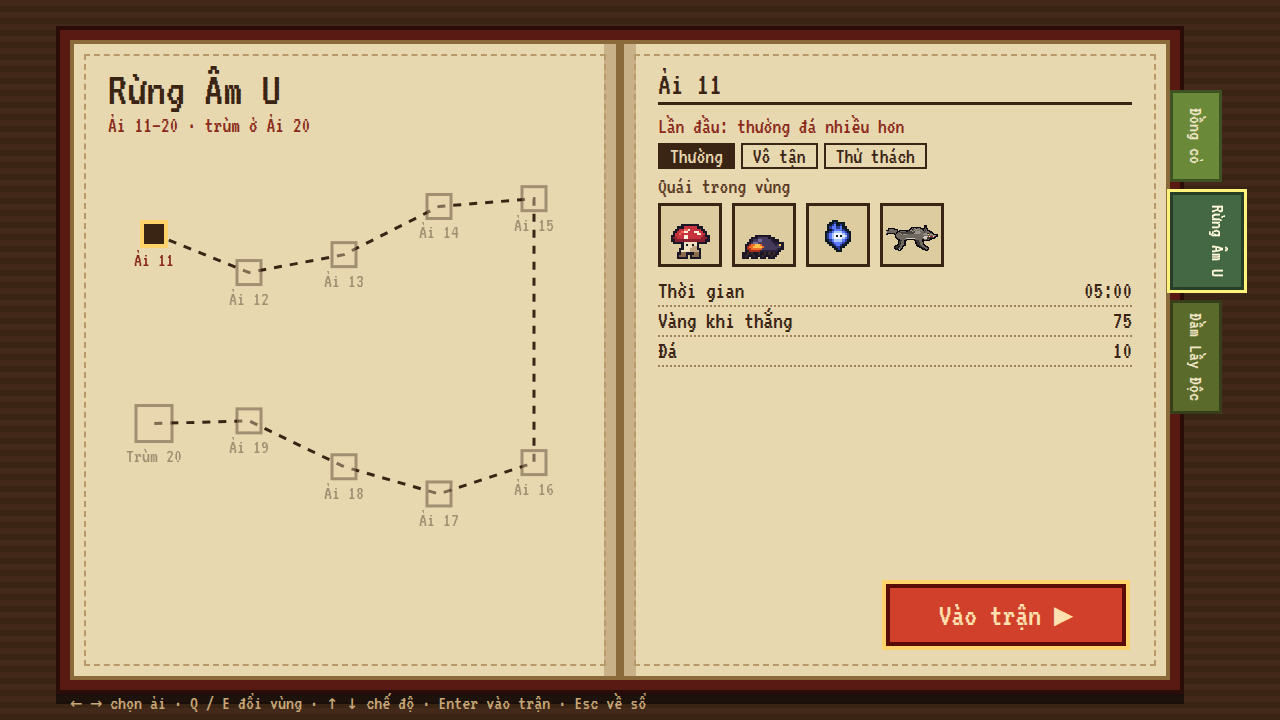
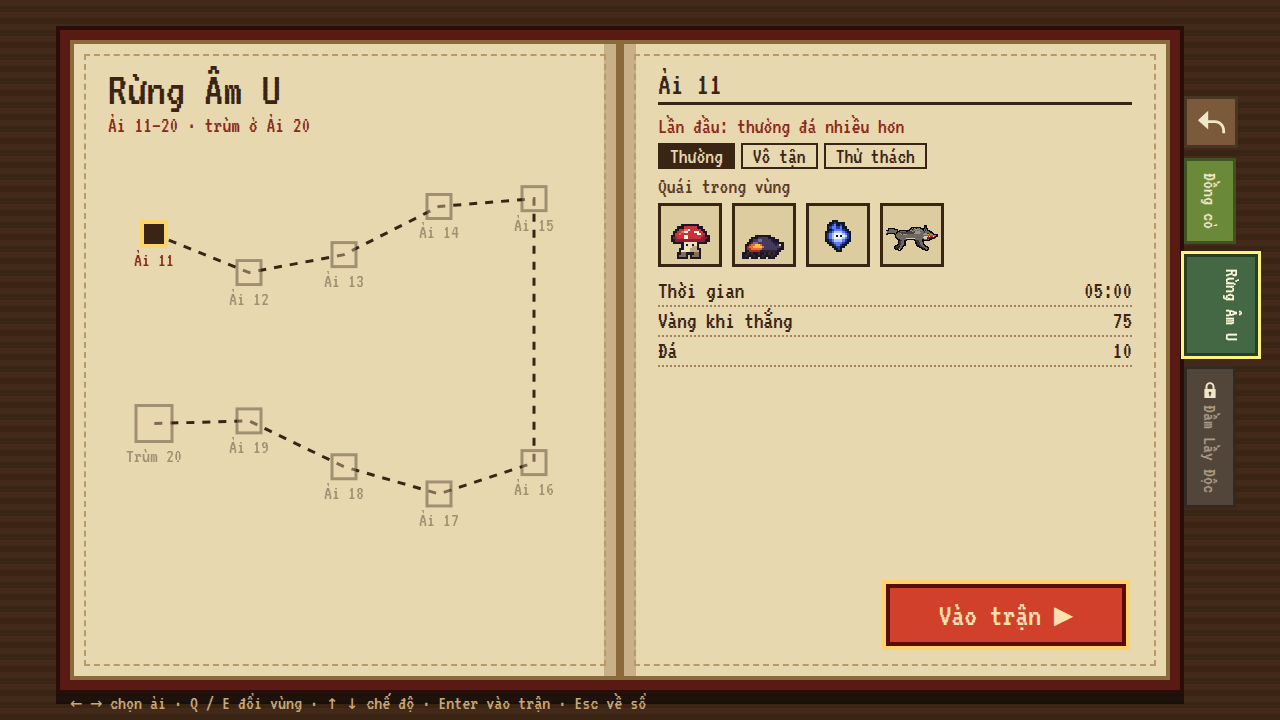
fix(design-web): ribbons fit their words, sit off the cover, lock when closed
User 2026-11-26: a ribbon was taller than its words, and regions not
reached must be locked. .ribbon drops its 92 px minimum, .ribbons sit
14 px out like the back tab, and .ribbon.lock is grey with a padlock
(assets/lobby/lock.svg) and not clickable; the stage page locks the
regions past the best stage + 1.

Verified: Chrome headless stages.png, ribbon column zoomed

Changed region(s): [[0.9062, 0.1222, 1.0, 0.7028]]

diff --git a/design-web/games/bach-ai/journal.css b/design-web/games/bach-ai/journal.css
@@ -21,8 +21,8 @@ img { image-rendering: pixelated; }
 .sub { font-size: 22px; color: var(--ink-red); }
 .muted { color: var(--ink-soft); }
 /* ribbons out of the right edge: tabs */
-.ribbons { position: absolute; left: 1100px; top: 50px; display: flex; flex-direction: column; gap: 10px; }
-.ribbon { width: 52px; min-height: 92px; padding: 10px 0; border: 3px solid #0006; color: #f3e6c8; font-size: 20px; writing-mode: vertical-rl;
+.ribbons { position: absolute; left: 1114px; top: 50px; display: flex; flex-direction: column; gap: 10px; }
+.ribbon { width: 52px; padding: 12px 0; border: 3px solid #0006; color: #f3e6c8; font-size: 20px; writing-mode: vertical-rl;
   text-align: center; line-height: 46px; cursor: pointer; }
 .ribbon.on { width: 74px; filter: brightness(1.15); outline: 3px solid var(--gold); }
 /* a ledger row: name, dotted leader, value */
@@ -46,3 +46,6 @@ img { image-rendering: pixelated; }
 .back-tab img { width: 30px; height: 30px; }
 .back-tab:hover, .back-tab.on { width: 68px; filter: brightness(1.15); outline: 3px solid var(--gold); }
 body.has-back .ribbons { top: 118px; }
+/* a locked ribbon (user 2026-11-26: regions not reached are locked): grey, a padlock, not clickable */
+.ribbon.lock { background: #52463a !important; color: #a89a88; cursor: default; pointer-events: none; }
+.ribbon.lock::before { content: ""; display: inline-block; width: 18px; height: 18px; margin-bottom: 6px; background: url(assets/lobby/lock.svg) center / contain no-repeat; }

diff --git a/design-web/games/bach-ai/screen-stages-journal.html b/design-web/games/bach-ai/screen-stages-journal.html
@@ -51,7 +51,7 @@ function nodes(r) {   // ten passes on a winding road across the page, the last 
 function draw() {
   const r = ST.regions[region];
   $("rname").textContent = r.name; $("rsub").textContent = `Ải ${r.from}–${r.to} · trùm ở Ải ${r.to}`;
-  $("tabs").innerHTML = ST.regions.map((x, i) => `<div class="ribbon ${i === region ? "on" : ""}" style="background:${COLS[i]}">${x.name}</div>`).join("");
+  $("tabs").innerHTML = ST.regions.map((x, i) => `<div class="ribbon ${i === region ? "on" : ""} ${x.from > best + 1 ? "lock" : ""}" title="${x.from > best + 1 ? "Mở khi vượt ải " + (x.from - 1) : ""}" style="background:${COLS[i]}">${x.name}</div>`).join("");
   const c = $("map").getContext("2d"); c.clearRect(0, 0, 480, 500);
   const N = nodes(region);
   c.setLineDash([8, 8]); c.strokeStyle = "#3a2414"; c.lineWidth = 3; c.beginPath(); N.forEach(([x, y], i) => i ? c.lineTo(x, y) : c.moveTo(x, y)); c.stroke(); c.setLineDash([]);
